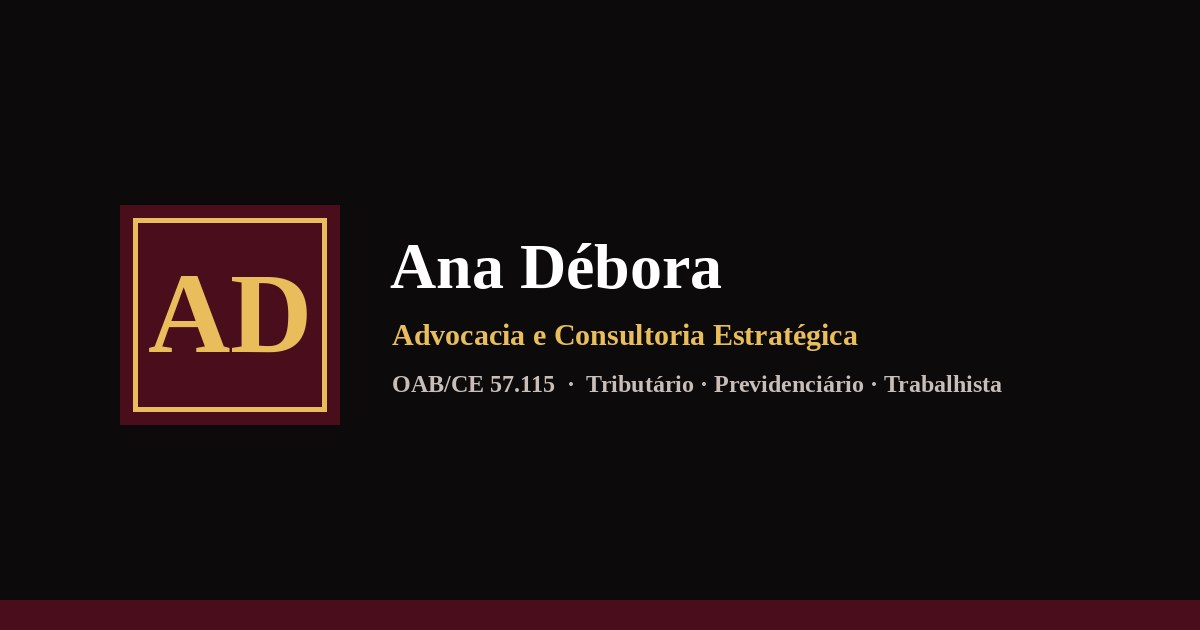
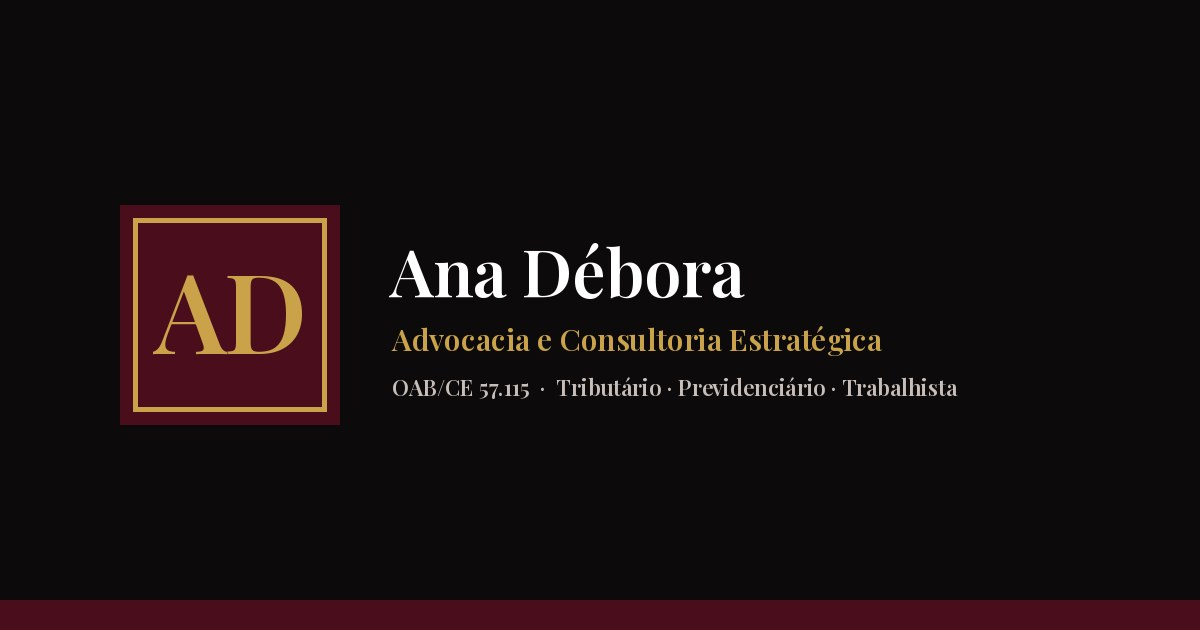
Site da advocacia em vinho e dourado, sem o vermelho da Clarm
- Dourado mais fechado no lugar do amarelo
- Fundos escuros em preto e vinho; destaques, ícones e bordas em dourado
- Monograma e imagem de compartilhamento na mesma fonte do site (provisórios
  até a logo original ser enviada)

Claude-Session: https://claude.ai/code/session_01L5GURvRvzL4QduCx8qPwB7

Changed region(s): [[0.0925, 0.3317, 0.2775, 0.6635], [0.3083, 0.5127, 0.8325, 0.6333], [0.3083, 0.3921, 0.6167, 0.4825]]

diff --git a/advocacia/assets/css/advocacia.css b/advocacia/assets/css/advocacia.css
@@ -858,3 +858,61 @@ ul, ol { margin: 0; padding: 0; }
 .menu .btn { white-space: nowrap; }
 @media (min-width: 1141px) and (max-width: 1240px) { .menu a:not(.btn) { padding: 8px 9px; font-size: 14px; } }
 .topo .marca { flex: none; }
+
+
+/* =========================================================
+   PALETA DA ADVOCACIA — vinho e dourado (preto e branco de apoio)
+   ========================================================= */
+:root {
+  --vermelho: #6d1026;          /* "vermelho" do sistema vira vinho */
+  --vermelho-escuro: #4a0d1c;
+  --vermelho-fundo: #f6eef0;
+  --vinho: #6d1026;
+  --noite: #0c0a0b;
+  --noite-2: #3d0a18;
+  --neon: #c9a24a;              /* dourado fechado para fundos escuros */
+  --rotulo: #d8b565;
+  --ok: #d8b565;
+  --dourado: #a8862f;           /* dourado para fundos claros */
+  --brilho: 109 16 38;
+  --brilho-2: 109 16 38;
+  --rede: 201 162 74;
+  --ponto: 232 200 120;
+  --whats: #6d1026;
+  --c1: #6d1026; --c2: #a8862f; --c3: #4a0d1c; --c4: #8a6a1f; --c5: #6d1026; --c6: #a8862f;
+}
+.btn-primario { box-shadow: 0 8px 20px rgba(109, 16, 38, .3); }
+.btn-primario:hover, .btn-whats:hover { background: #4a0d1c; }
+.hero { background: linear-gradient(150deg, #0c0a0b 0%, #1c0810 45%, var(--noite-2) 100%); }
+.secao-tech { background: linear-gradient(200deg, #4a0d1c 0%, #250712 55%, #0c0a0b 100%); }
+.letreiro { background: linear-gradient(90deg, #0c0a0b, var(--vinho), #4a0d1c, var(--vinho), #0c0a0b); background-size: 300% 100%; border-block: 1px solid rgba(201, 162, 74, .45); }
+.letreiro span { color: #f2e6cf; }
+.chamada { background: linear-gradient(120deg, var(--vinho), #4a0d1c, #0c0a0b, #4a0d1c, var(--vinho)); background-size: 300% 300%; }
+.hero h1 em, .secao-tech h2 em {
+  background: linear-gradient(100deg, var(--neon) 0%, #f3e3b6 25%, var(--neon) 45%, #e0c070 70%, var(--neon) 100%);
+  background-size: 250% 100%; -webkit-background-clip: text; background-clip: text;
+}
+.progresso span { background: linear-gradient(90deg, var(--vinho), var(--neon)); box-shadow: 0 0 10px rgba(201, 162, 74, .6); }
+.pulso { background: var(--neon); }
+.cursor { background: var(--neon); }
+.retrato-borda::before { background: conic-gradient(from 0deg, transparent 0 60%, var(--neon) 75%, #fff 80%, transparent 90%); }
+.varredura { background: linear-gradient(180deg, transparent, rgba(201, 162, 74, .16), transparent); }
+.faixa li .icone, .lista-trib .icone { color: var(--neon); }
+.selo-mono, .secao:not(.secao-escura):not(.secao-tech) .selo { background: linear-gradient(90deg, var(--vinho), var(--dourado)); -webkit-background-clip: text; background-clip: text; -webkit-text-fill-color: transparent; }
+.secao:not(.secao-escura):not(.secao-tech) .selo::before { background: linear-gradient(90deg, var(--vinho), var(--dourado)); }
+.hero .selo, .secao-tech .selo, .secao-escura .selo { background: none; -webkit-text-fill-color: var(--rotulo); color: var(--rotulo); }
+.sobre .cargo { color: var(--vinho); }
+.citacao::before { color: var(--neon); }
+.whats-flutuante { background: linear-gradient(135deg, var(--vinho), #4a0d1c); border-color: var(--neon); box-shadow: 0 10px 28px rgba(74, 13, 28, .5); }
+.whats-flutuante::before { border-color: var(--neon); }
+.notificacoes i { background: linear-gradient(135deg, var(--neon), var(--dourado)); }
+.painel-lista i, .passos[data-linha]::before { background: linear-gradient(90deg, var(--vinho), var(--neon)); }
+.painel-grafico span { background: linear-gradient(180deg, var(--neon), rgba(109, 16, 38, .35)); }
+.ad-monograma { background: var(--vinho); color: var(--neon); border-color: var(--neon); box-shadow: inset 0 0 0 2px var(--vinho); }
+.ad-nome b { font-weight: 600; }
+.ad-nome small { color: var(--vinho); }
+.rodape { border-top-color: var(--neon); }
+.rodape h4 { color: var(--neon); }
+.registro strong, .credenciais strong { color: inherit; }
+.cidades li.sede { background: var(--vinho); border-color: var(--vinho); }
+.status-disponivel, .etiqueta { background: var(--vinho); }

diff --git a/advocacia/index.html b/advocacia/index.html
@@ -29,8 +29,8 @@
 
   <link rel="preload" href="/assets/fonts/inter.woff2" as="font" type="font/woff2" crossorigin />
   <link rel="preload" href="/assets/fonts/playfair-600-normal.woff2" as="font" type="font/woff2" crossorigin />
-  <link rel="stylesheet" href="/assets/css/advocacia.css?v=20260928a" />
-  <script src="/assets/js/advocacia.js?v=20260928a" defer></script>
+  <link rel="stylesheet" href="/assets/css/advocacia.css?v=20260928b" />
+  <script src="/assets/js/advocacia.js?v=20260928b" defer></script>
 
   <!-- Dados estruturados: ajudam o Google a entender o escritório, a profissional e as perguntas frequentes -->
   <script type="application/ld+json">
@@ -148,7 +148,7 @@
   <!-- ===================== TOPO ===================== -->
   <section class="hero" aria-labelledby="titulo-principal">
     <div class="aurora" aria-hidden="true"><i></i><i></i><i></i></div>
-    <div class="flutuantes" aria-hidden="true"><span style="left:8%;--d:22s;--atraso:0s;--t:26px;--cor:#e9bd5b;--giro:30deg">§</span><span style="left:20%;--d:26s;--atraso:-7s;--t:30px;--cor:#ffffff;--giro:-40deg">⚖</span><span style="left:34%;--d:19s;--atraso:-12s;--t:24px;--cor:#ff9aa2;--giro:50deg">Art.</span><span style="left:48%;--d:27s;--atraso:-3s;--t:24px;--cor:#e9bd5b;--giro:-20deg">§</span><span style="left:60%;--d:21s;--atraso:-9s;--t:22px;--cor:#f0cf86;--giro:60deg">R$</span><span style="left:72%;--d:25s;--atraso:-15s;--t:30px;--cor:#ff9aa2;--giro:-30deg">⚖</span><span style="left:84%;--d:23s;--atraso:-18s;--t:22px;--cor:#ffffff;--giro:35deg">§</span><span style="left:93%;--d:18s;--atraso:-4s;--t:26px;--cor:#e9bd5b;--giro:-50deg">%</span></div>
+    <div class="flutuantes" aria-hidden="true"><span style="left:8%;--d:22s;--atraso:0s;--t:26px;--cor:#c9a24a;--giro:30deg">§</span><span style="left:20%;--d:26s;--atraso:-7s;--t:30px;--cor:#ffffff;--giro:-40deg">⚖</span><span style="left:34%;--d:19s;--atraso:-12s;--t:24px;--cor:#d8b565;--giro:50deg">Art.</span><span style="left:48%;--d:27s;--atraso:-3s;--t:24px;--cor:#c9a24a;--giro:-20deg">§</span><span style="left:60%;--d:21s;--atraso:-9s;--t:22px;--cor:#d8b565;--giro:60deg">R$</span><span style="left:72%;--d:25s;--atraso:-15s;--t:30px;--cor:#d8b565;--giro:-30deg">⚖</span><span style="left:84%;--d:23s;--atraso:-18s;--t:22px;--cor:#ffffff;--giro:35deg">§</span><span style="left:93%;--d:18s;--atraso:-4s;--t:26px;--cor:#c9a24a;--giro:-50deg">%</span></div>
     <canvas class="hero-rede" aria-hidden="true"></canvas>
     <div class="hero-grade" aria-hidden="true"></div>
     <div class="container">

diff --git a/advocacia/404.html b/advocacia/404.html
@@ -13,8 +13,8 @@
   <link rel="apple-touch-icon" href="/assets/img/apple-touch-icon.png" />
   <link rel="manifest" href="/site.webmanifest" />
   <link rel="preload" href="/assets/fonts/inter.woff2" as="font" type="font/woff2" crossorigin />
-  <link rel="stylesheet" href="/assets/css/advocacia.css?v=20260928a" />
-  <script src="/assets/js/advocacia.js?v=20260928a" defer></script>
+  <link rel="stylesheet" href="/assets/css/advocacia.css?v=20260928b" />
+  <script src="/assets/js/advocacia.js?v=20260928b" defer></script>
 </head>
 <body>
 

diff --git a/advocacia/politica-de-privacidade.html b/advocacia/politica-de-privacidade.html
@@ -13,8 +13,8 @@
   <link rel="apple-touch-icon" href="/assets/img/apple-touch-icon.png" />
   <link rel="manifest" href="/site.webmanifest" />
   <link rel="preload" href="/assets/fonts/inter.woff2" as="font" type="font/woff2" crossorigin />
-  <link rel="stylesheet" href="/assets/css/advocacia.css?v=20260928a" />
-  <script src="/assets/js/advocacia.js?v=20260928a" defer></script>
+  <link rel="stylesheet" href="/assets/css/advocacia.css?v=20260928b" />
+  <script src="/assets/js/advocacia.js?v=20260928b" defer></script>
 </head>
 <body>
 
